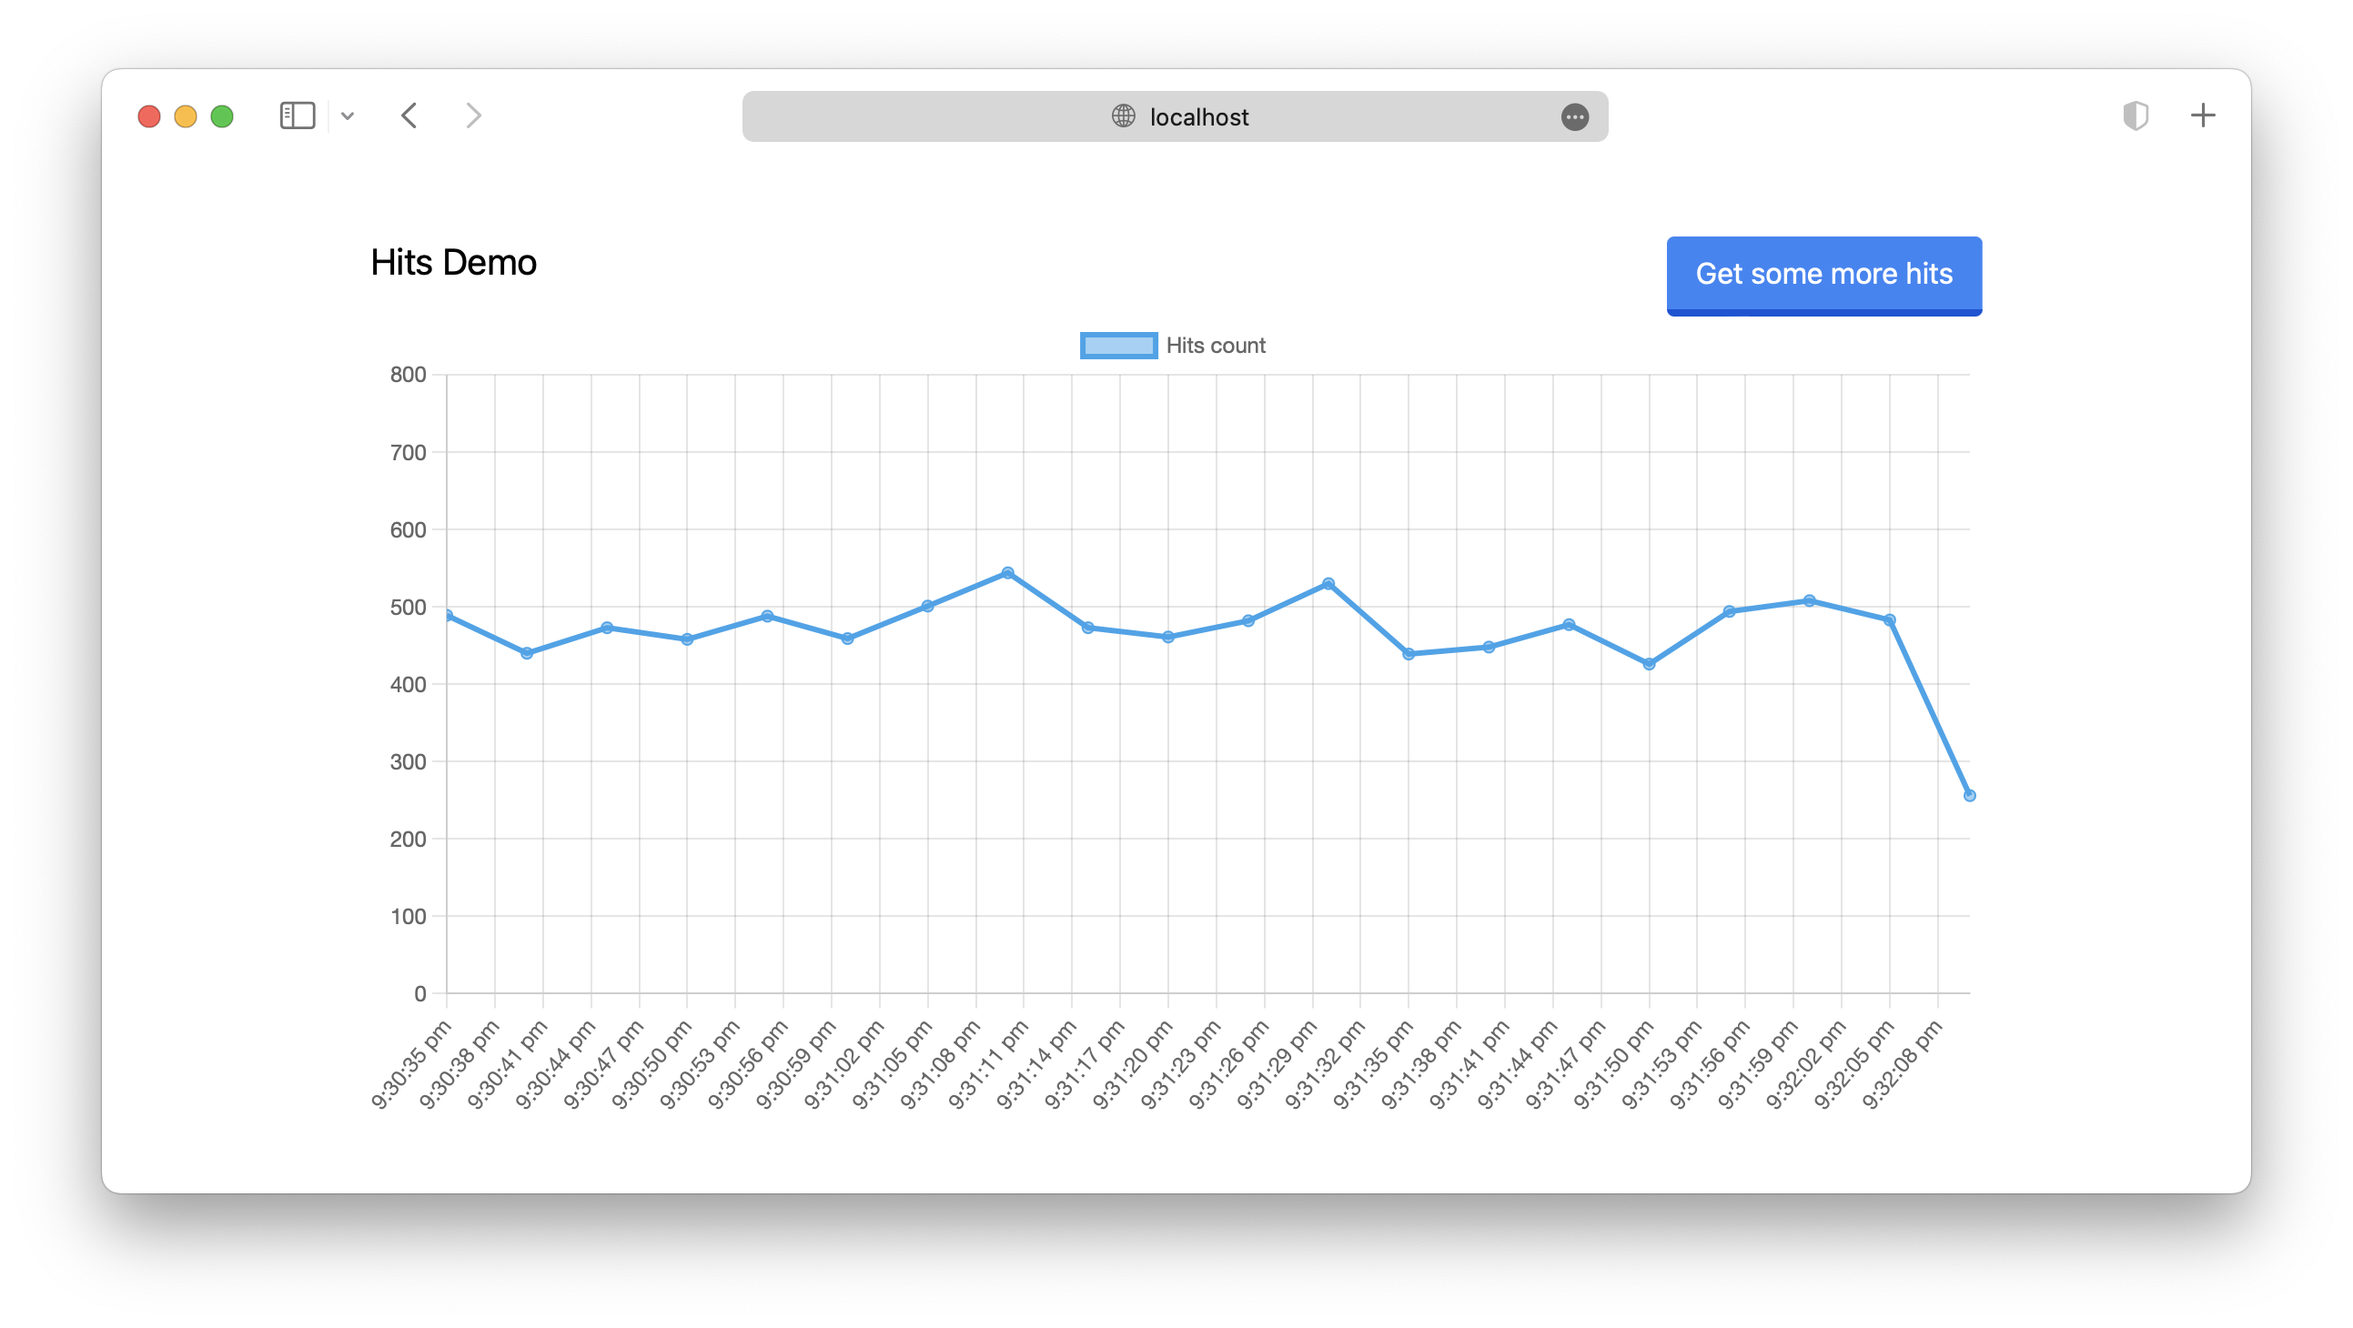
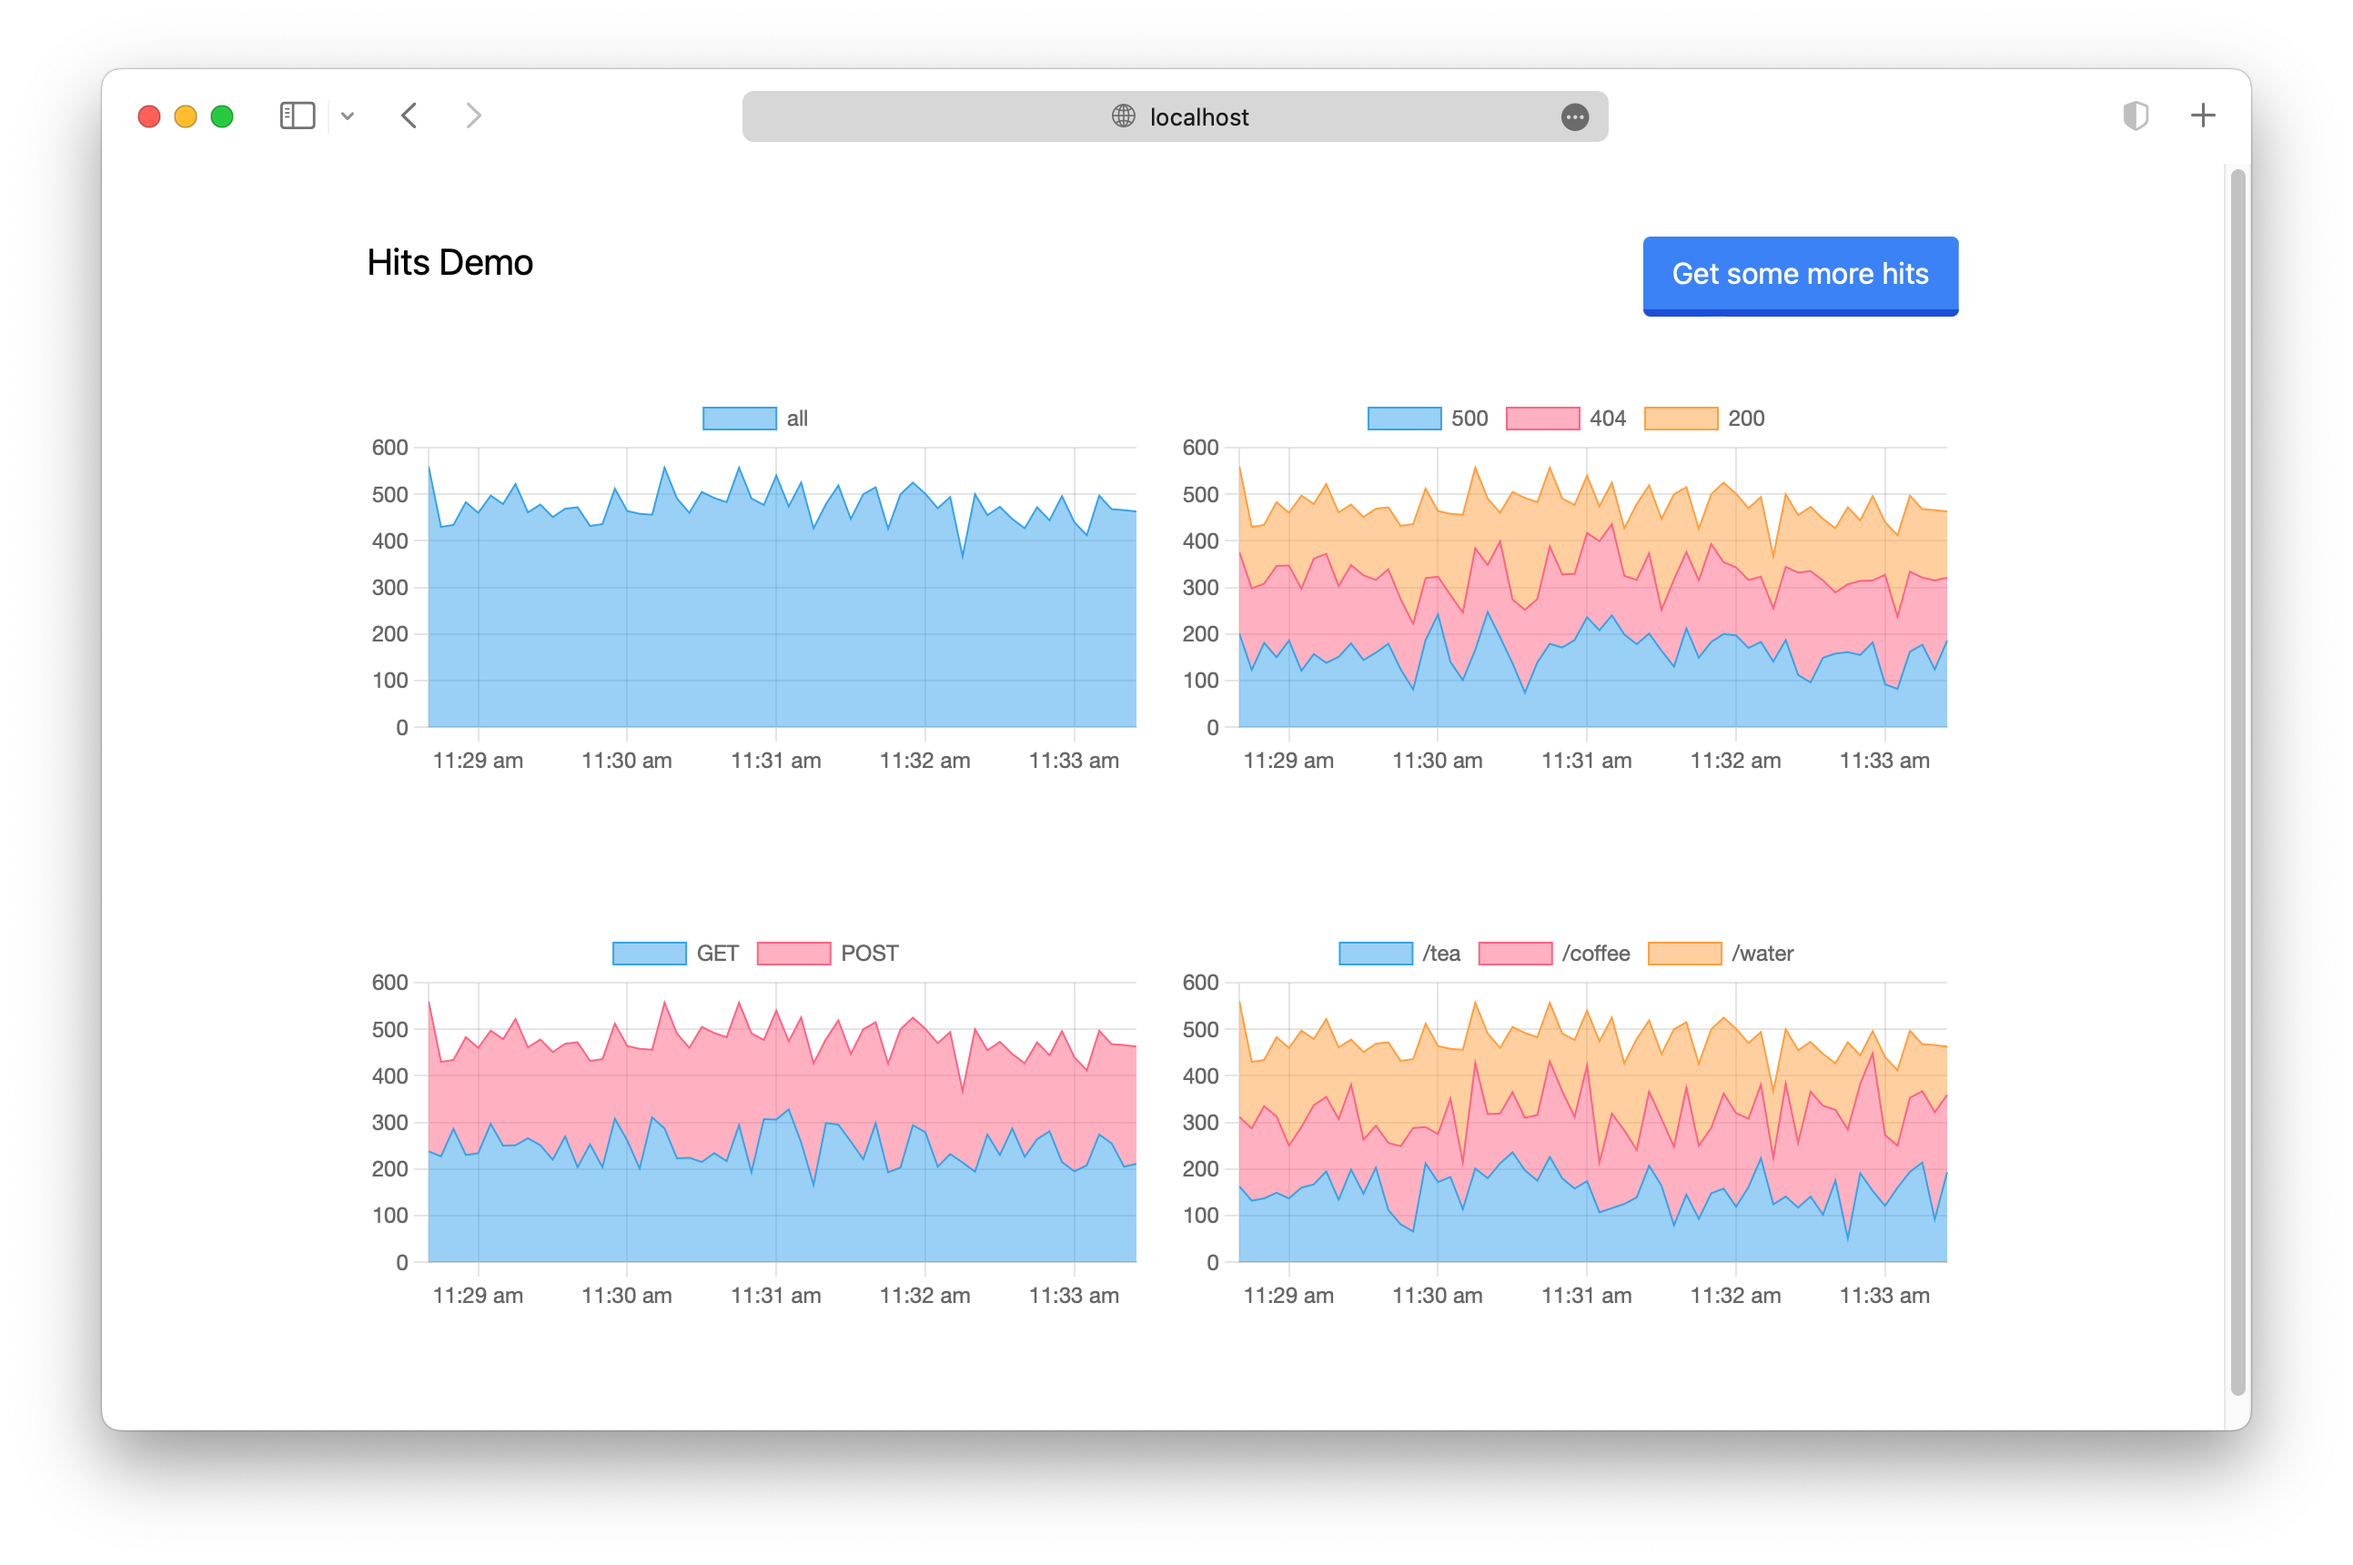
Add charts that group by method, status and path

diff --git a/djaclick/hits/static/hits/main.js b/djaclick/hits/static/hits/main.js
@@ -1,71 +1,79 @@
-console.log("Hello world");
+// main.js renders the charts for hits into canvases
+// defined on the page. The canvas elements should have
+// class=chart and, optionally, data-group-by=status/path/method.
 
-let myChart = undefined;
+// Store charts by their canvas ID for later updates
+const charts = new Map();
 
-async function redrawChart() {
-  const res = await fetch("/hits/timeseries");
+// Default configuration for all charts
+const defaultConfig = {
+  type: "line",
+  options: {
+    pointStyle: false,
+    borderWidth: 1,
+    animation: { duration: 0 },
+    scales: {
+      x: { type: "time" },
+      y: { min: 0, stacked: true },
+    },
+  },
+};
+
+async function redrawChart(canvasElement) {
+  const groupBy = canvasElement.dataset.groupBy;
+  let res = undefined;
+  if (!groupBy) {
+    res = await fetch("/hits/timeseries");
+  } else {
+    res = await fetch(`/hits/timeseries?groupby=${groupBy}`);
+  }
   const json = await res.json();
-  const rawdata = json["data"];
-  console.log(rawdata);
 
-  let minDate = "a"; // "a" is after any valid date.
-  rawdata.forEach((x) => {
-    if (x.ts < minDate) {
-      minDate = x.ts;
-    }
+  // Create chart.js friendly datasets by mapping
+  // to x,y and find the min X and maxY as we do so.
+  const datasets = [];
+  let minDate = Number.MAX_SAFE_INTEGER;
+  let maxY = Number.MIN_SAFE_INTEGER;
+  json["series"].forEach((rawdata) => {
+    const data = [];
+
+    rawdata["data"].forEach((row) => {
+      const ts = Date.parse(row.ts);
+      minDate = Math.min(row.ts, minDate);
+      maxY = Math.max(row.count, maxY);
+
+      data.push({ x: ts, y: row.count });
+    });
+
+    datasets.push({
+      label: rawdata["label"],
+      data: data,
+      fill: "stack",
+    });
   });
 
-  const data = {
-    // labels: rawdata.map((row) => row.ts),
-    datasets: [
-      {
-        label: "Hits count",
-        data: rawdata.map((row) => {
-          // return { x: `${row.year}-11-06 23:39:30`, y: row.count };
-          return { x: `${row.ts}`, y: row.count };
-        }),
-      },
-    ],
-  };
-  if (!myChart) {
-    const config = {
-      type: "line",
-      data: data,
-      options: {
-        animation: {
-          duration: 0,
-        },
-        scales: {
-          x: {
-            type: "time",
-            min: minDate,
-            time: {
-              // unit: "minute",
-            },
-          },
-          y: {
-            min: 0,
-            suggestedMax: 800,
-          },
-        },
-      },
-    };
-
-    myChart = new Chart(
-      document.getElementById("acquisitions"),
-      config,
-    );
-  } else {
-    myChart.options.scales.x.min = minDate;
-    myChart.data = data;
-    myChart.update();
+  const chartId = canvasElement.id;
+  if (!charts.has(chartId)) {
+    charts[chartId] = new Chart(canvasElement, structuredClone(defaultConfig));
   }
+  const chart = charts[chartId];
+  chart.options.scales.x.min = minDate;
+  chart.options.scales.y.suggestedMax = maxY;
+  chart.data = { datasets: datasets };
+  chart.update();
+}
+
+function redrawAllCharts() {
+  const matches = document.querySelectorAll("canvas.chart");
+  matches.forEach((n) => {
+    redrawChart(n);
+  });
 }
 
 (async function () {
   const button = document.querySelector("#getmorehits");
   button.addEventListener("click", (event) => {
-    redrawChart();
+    redrawAllCharts();
   });
-  redrawChart();
+  redrawAllCharts();
 })();

diff --git a/djaclick/hits/templates/hits/index.html b/djaclick/hits/templates/hits/index.html
@@ -6,7 +6,6 @@
 <head>
   <title>Hits Demo</title>
   {% tailwind_css %}
-  <link rel="stylesheet" href="{% static 'hits/style.css' %}">
   <script src="https://cdn.jsdelivr.net/npm/chart.js@4.4.1/dist/chart.umd.min.js"></script>
   <script src="https://cdn.jsdelivr.net/npm/moment@^2"></script>
   <script src="https://cdn.jsdelivr.net/npm/chartjs-adapter-moment@^1"></script>
@@ -27,9 +26,17 @@
 
 </div>
 
-<div style="width: 100%;"><canvas id="acquisitions"></canvas></div>
-  <script type="text/javascript" src="{% static 'hits/main.js' %}"></script>
+<div class="columns-2">
+  <div class="py-10 w-full"><canvas class="chart" id="hits"></canvas></div>
+  <div class="py-10 w-full"><canvas class="chart" id="hits2" data-group-by="status"></canvas></div>
+</div>
+<div class="columns-2">
+  <div class="py-10 w-full"><canvas class="chart" id="hits3" data-group-by="method"></canvas></div>
+  <div class="py-10 w-full"><canvas class="chart" id="hits4" data-group-by="path"></canvas></div>
+</div>
 
 </div>
+
+<script type="text/javascript" src="{% static 'hits/main.js' %}"></script>
 
 </body>

diff --git a/djaclick/hits/views.py b/djaclick/hits/views.py
@@ -3,28 +3,49 @@ from django.http import JsonResponse
 
 import clickhouse_connect
 
+LABEL_COL = 2
+TS_COL = 0
+COUNT_COL = 1
+
 
 def index(request):
-    context = {
-        "latest_question_list": "foo",
-    }
+    context = {}
     return render(request, "hits/index.html", context)
 
+
 def timeseries(request):
-    client = clickhouse_connect.get_client(
-        host="localhost", port=8123)
+    # Check for groupby in the query string and check it is valid
+    group_by = request.GET.get("groupby")
+    if group_by is not None:
+        if group_by not in ["'all'", "method", "status", "path"]:
+            return JsonResponse({"ok": False, "reason": "bad groupby"}, status=400)
+    else:
+        # use a static string for grouping, to allow query to return the
+        # same result shape for simpler processing
+        group_by = "'all'"
 
-    QUERY = """SELECT
-        toStartOfInterval(ts, toIntervalSecond(5)) AS h,
-        count(status)
-    FROM hits
-    GROUP BY h
-    ORDER BY h DESC
-    LIMIT 20
-    """
-
+    # Group hits into 5s boundaries. Only get upto now-10s to avoid the
+    # last point being incompletely counted
+    client = clickhouse_connect.get_client(host="localhost", port=8123)
+    QUERY = """
+        SELECT
+            toStartOfInterval(ts, toIntervalSecond(5)) AS h,
+            count(*), {0}
+        FROM hits
+        WHERE h > subtractMinutes(now(), 5) AND h < subtractSeconds(now(), 10)
+        GROUP BY h, {0}
+        ORDER BY h DESC
+    """.format(  # Not great, but we check for valid values above, so safe.
+        group_by
+    )
     result = client.query(QUERY)
 
-    return JsonResponse({"data": [{"ts": x[0], "count": x[1]} for x in result.result_rows]})
-    
-   
+    # The rows are interleaved for the groupby due to the order by;
+    # create a series for each value of groupby before returning
+    series = {}
+    for row in result.result_rows:
+        points = series.setdefault(row[LABEL_COL], [])
+        points.append({"ts": row[TS_COL], "count": row[COUNT_COL]})
+    return JsonResponse(
+        {"ok": True, "series": [{"label": k, "data": v} for k, v in series.items()]}
+    )
